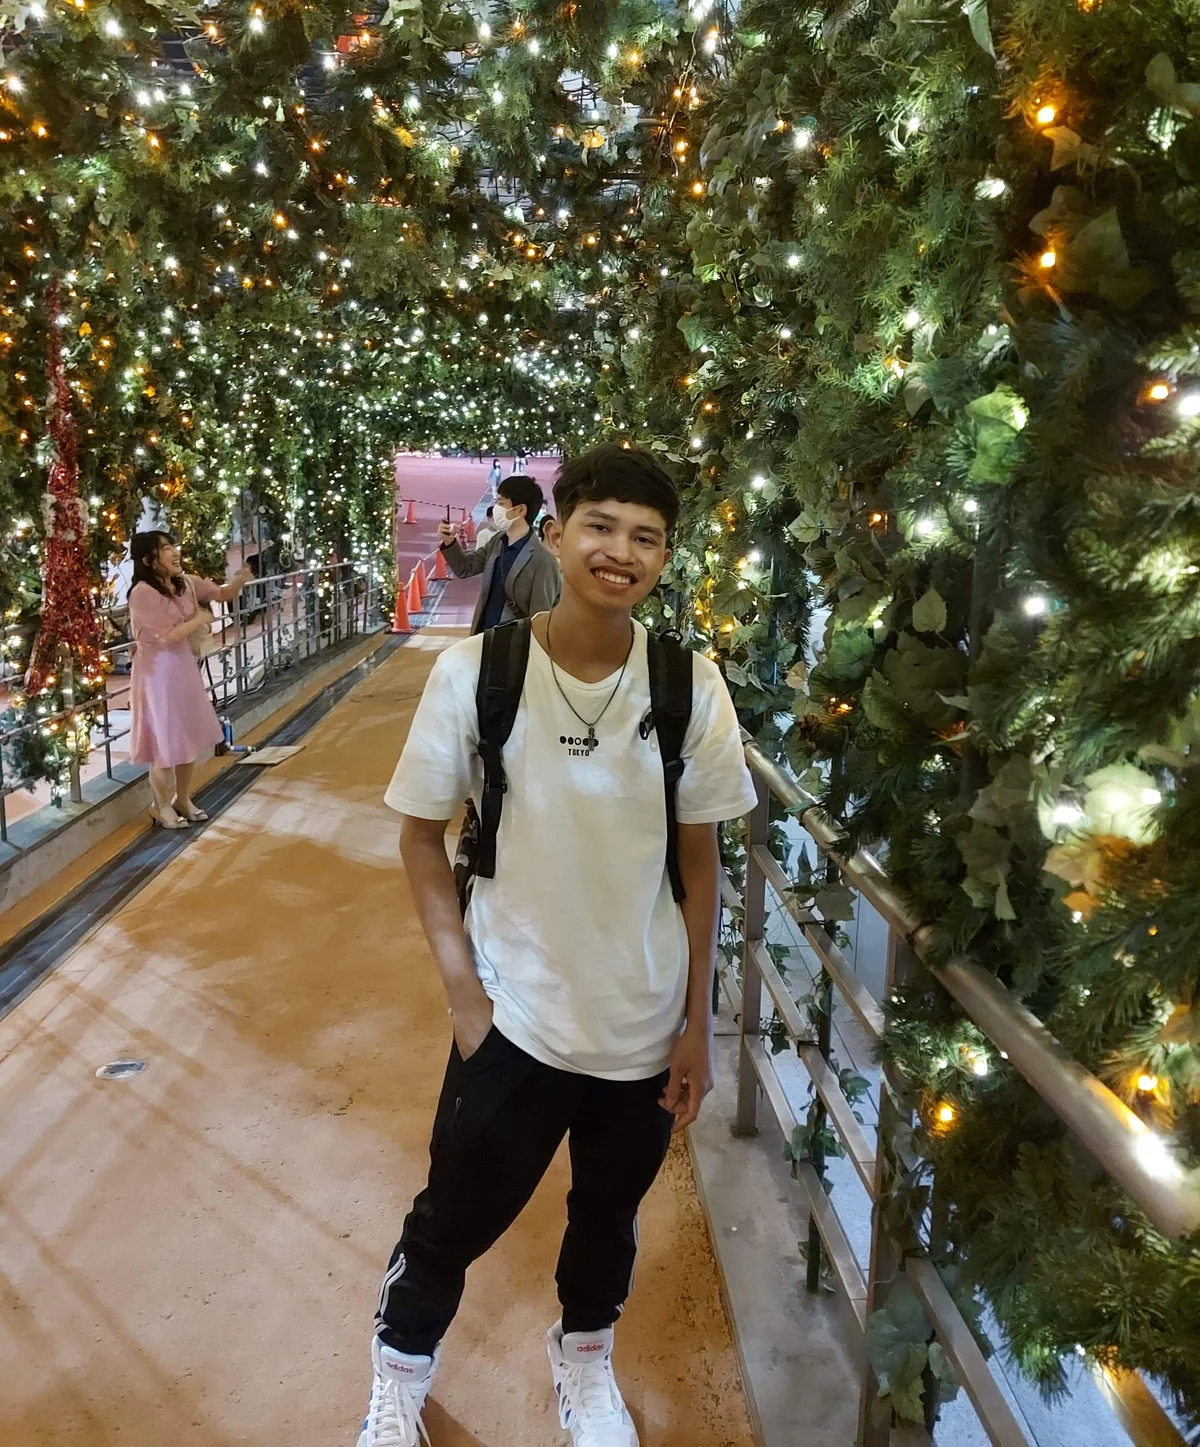
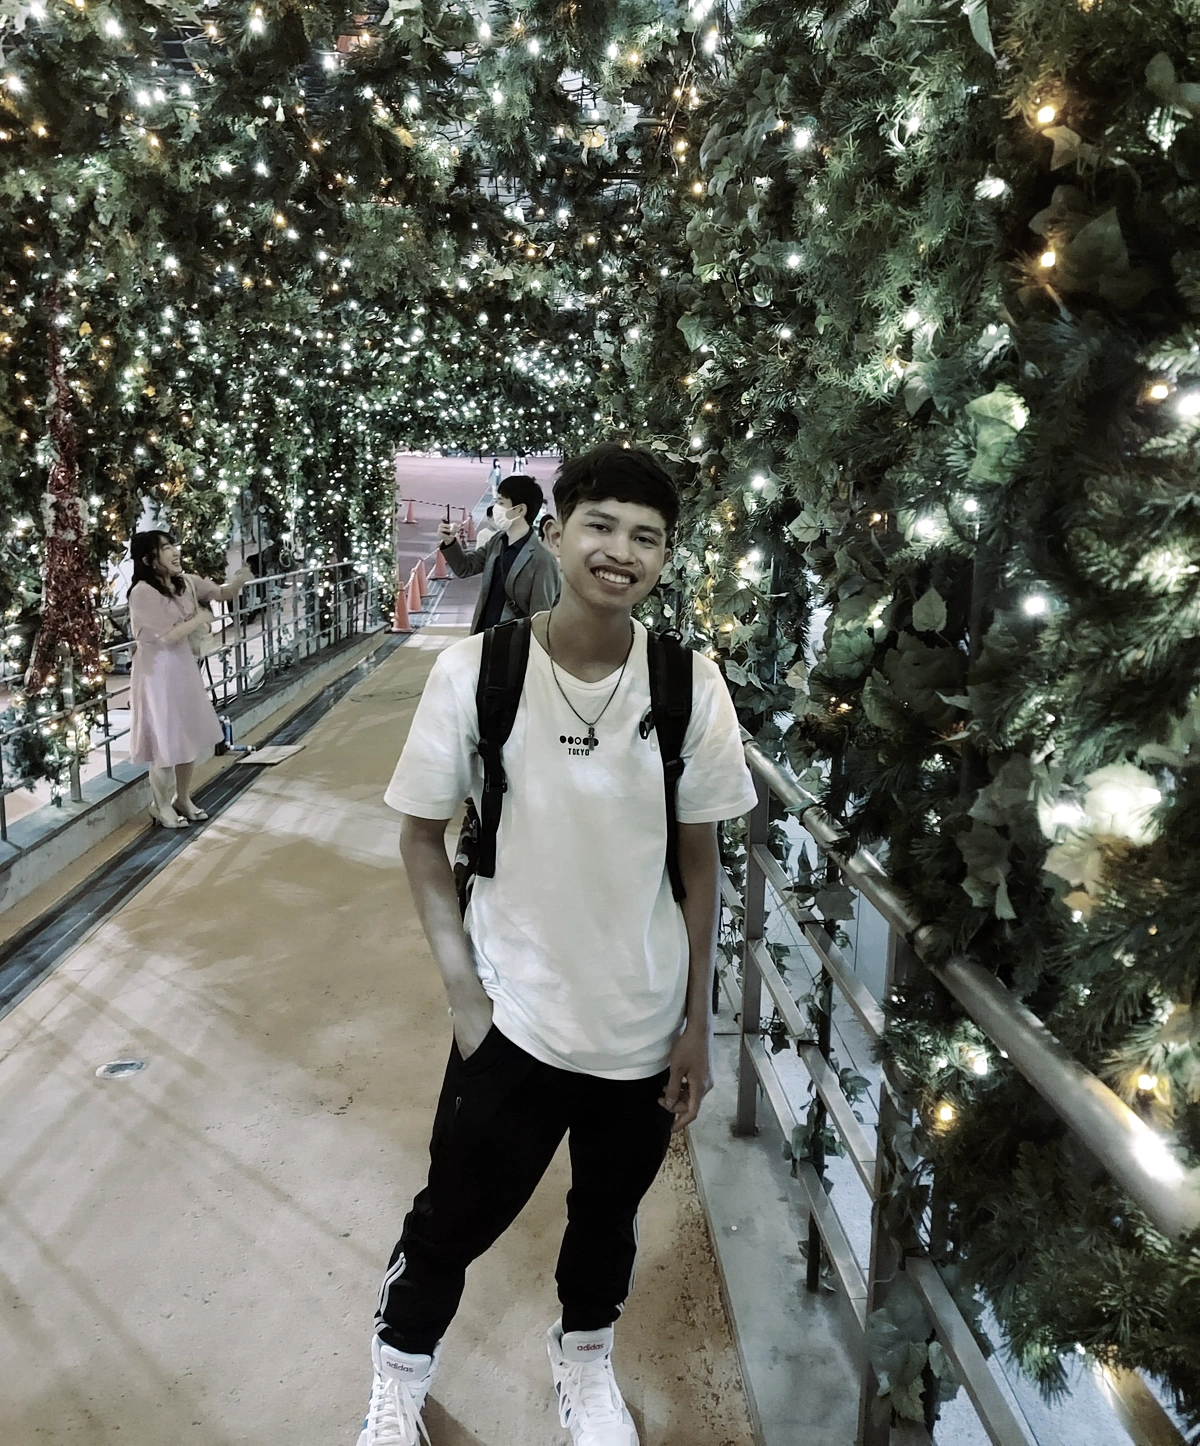
feat: apply nocturnal brutalist color grade and hud styling to hero portrait

diff --git a/src/lib/components/Hero.svelte b/src/lib/components/Hero.svelte
@@ -55,8 +55,15 @@
 					style="transform: translateY({scrollY * 0.08}px)"
 					loading="eager"
 				/>
+				<!-- Technical metadata HUD tag -->
+				<div class="absolute top-4 left-4 z-10 bg-surface/80 backdrop-blur border border-white/10 px-3 py-1 brutal-border flex items-center gap-2 pointer-events-none select-none">
+					<span class="w-1.5 h-1.5 rounded-full bg-secondary shadow-neon-secondary animate-pulse"></span>
+					<span class="font-grotesk text-[10px] tracking-[0.25em] text-gray-300 uppercase">TOKYO // NOCTURNAL</span>
+				</div>
+				<!-- Top subtle gradient -->
+				<div class="absolute inset-x-0 top-0 h-16 bg-gradient-to-b from-surface/40 to-transparent pointer-events-none"></div>
 				<!-- Overlay gradient for depth (subtle at bottom edge) -->
-				<div class="absolute inset-x-0 bottom-0 h-20 bg-gradient-to-t from-surface/50 to-transparent pointer-events-none"></div>
+				<div class="absolute inset-x-0 bottom-0 h-24 bg-gradient-to-t from-surface/60 to-transparent pointer-events-none"></div>
 			</div>
 			
 			<!-- Floating card -->
